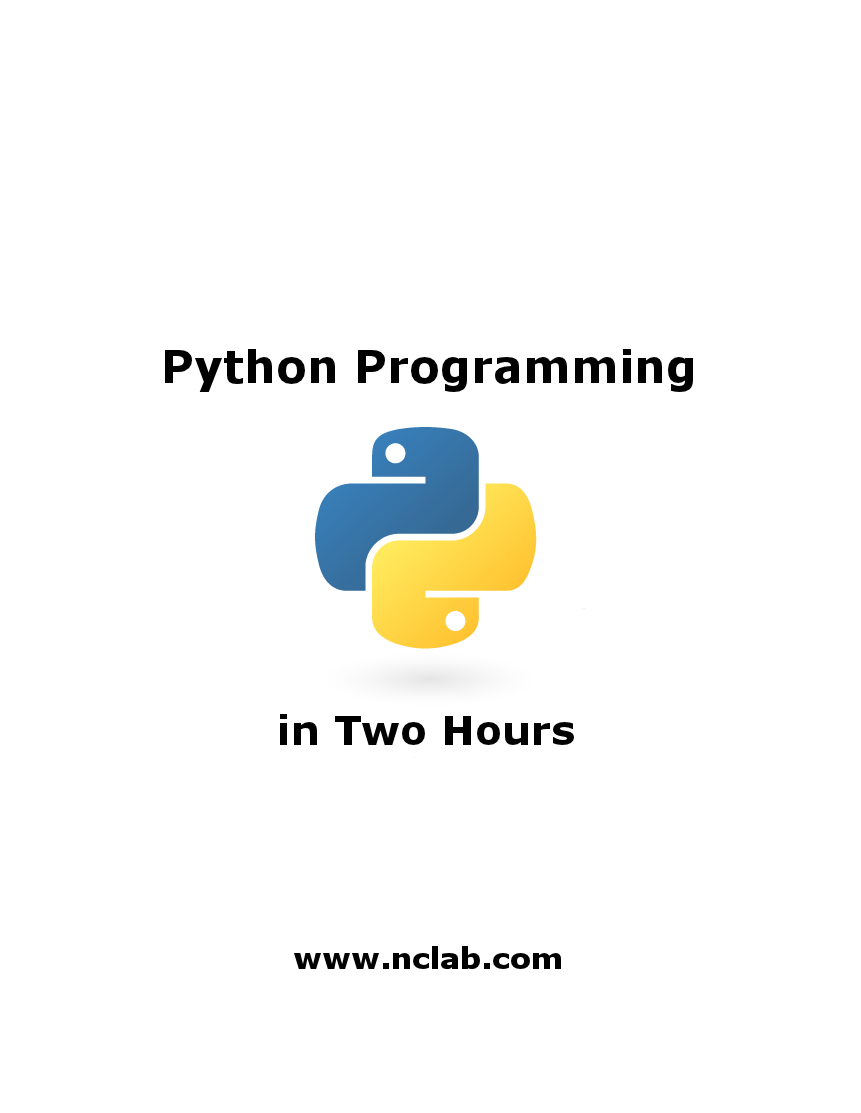
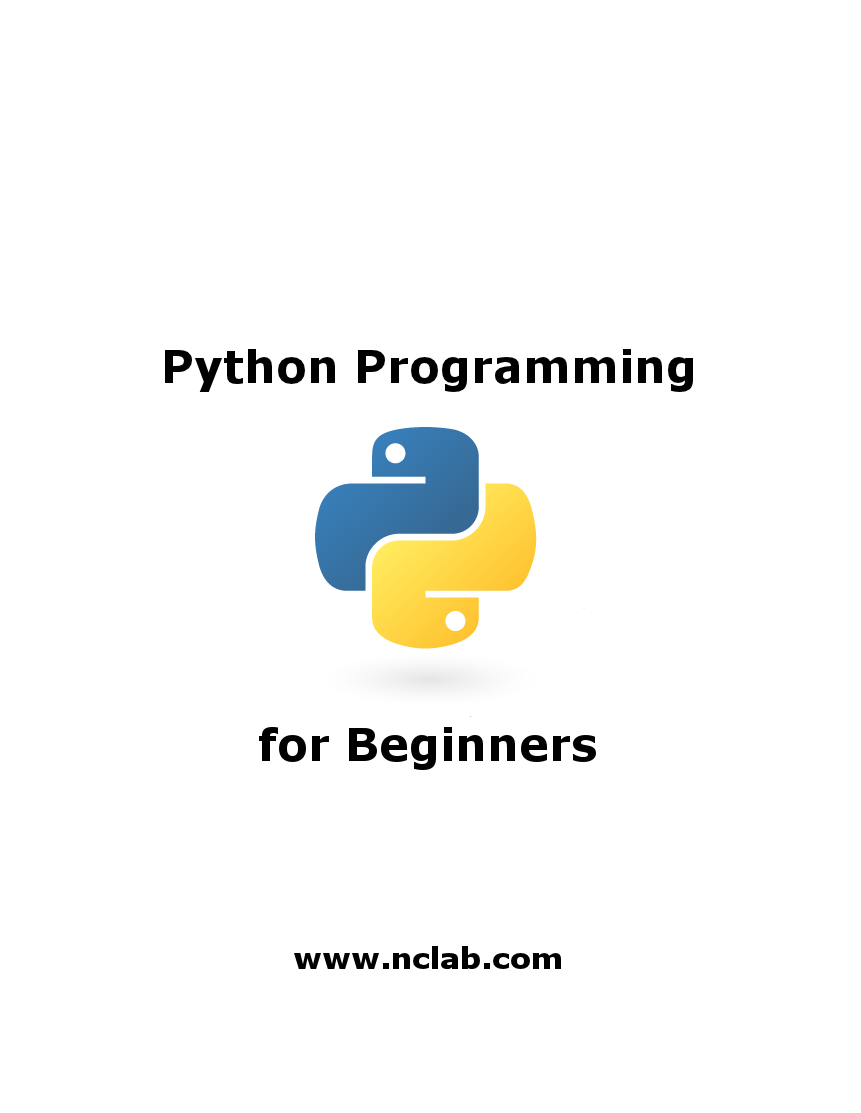
Renaming Python

Changed region(s): [[0.302, 0.6415, 0.6945, 0.7026]]

diff --git a/python/python.tex b/python/python.tex
@@ -147,7 +147,7 @@ easy to learn. It has efficient high-level
 data structures and a simple but effective approach to object-oriented programming. 
 Python's elegant syntax and dynamic typing, together with its interpreted nature, 
 make it an ideal language for beginners. 
-In this short course that should not take more than two hours of your time, you will 
+In this short course you will 
 learn the most important aspects of the language and be able to 
 write a wide range of programs by yourself. Depending on your objectives, this course 
 might be all you will ever need. We hope that you will like Python and want
@@ -912,7 +912,7 @@ and the next one is going to be simpler!
 \section{The {\tt while} loop}\label{sec:while}
 
 Loops are a powerful tool as they allow us to use the computer to solve
-tasks that would take hours, months, or even years to a human person. 
+tasks that would take many hours, months, or even years to a human person. 
 Let's do something really simple. We know that the sine and cosine functions 
 intersect somewhere between $x = 0$ and $x = \pi/2$. Let's make this more accurate!
 
